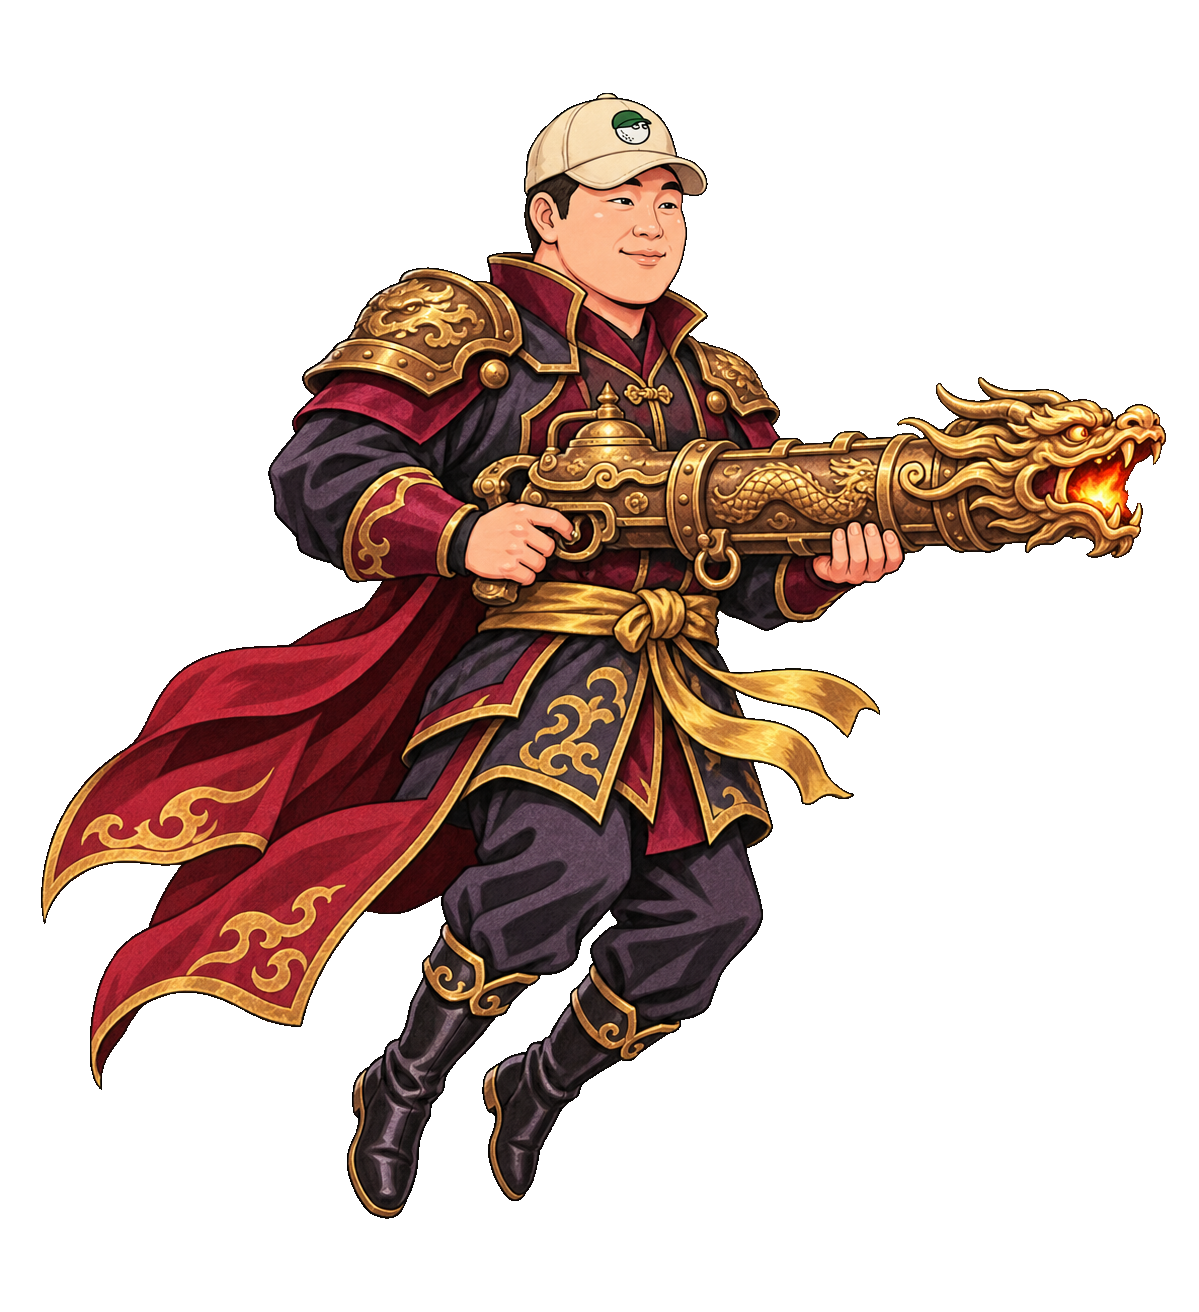
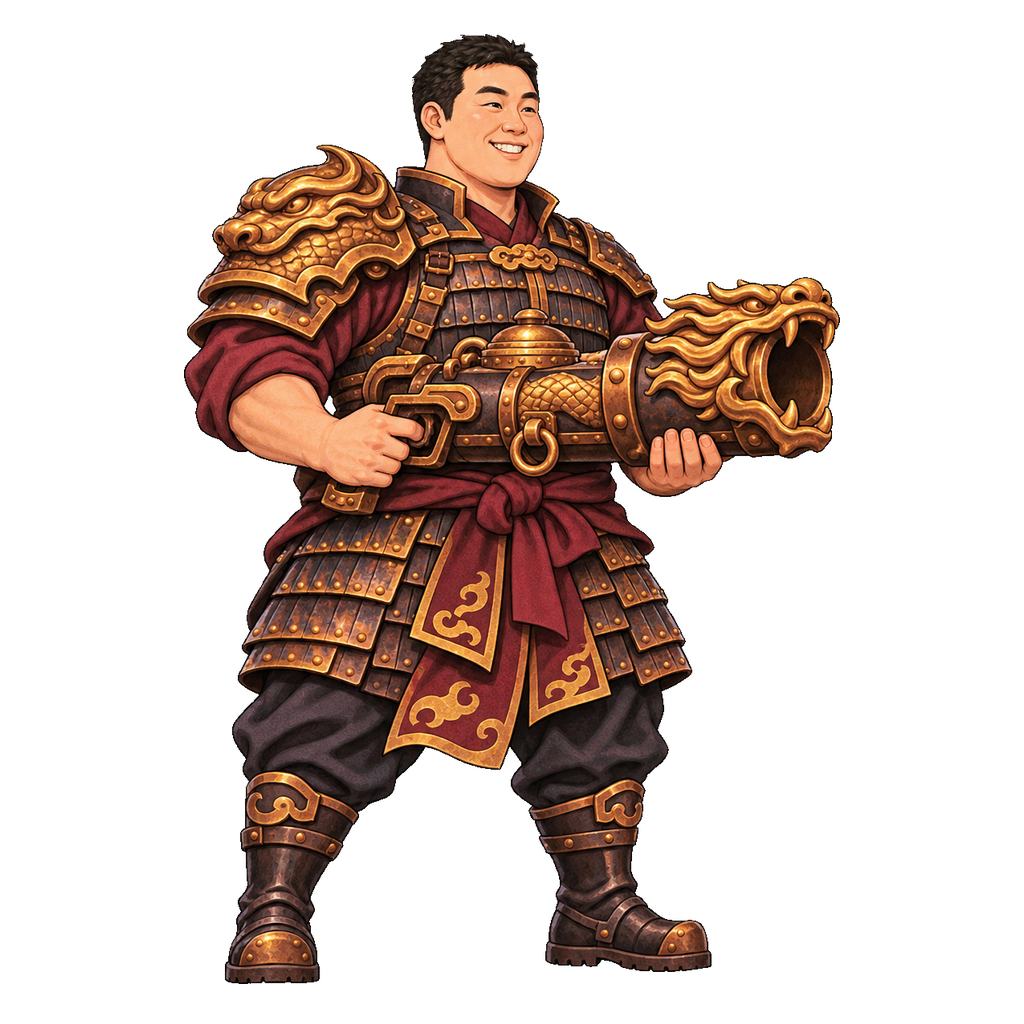
Remodel Skybound heroes with distinct hat-free designs and matching motions

diff --git a/public/skybound/index.html b/public/skybound/index.html
@@ -1,9 +1,9 @@
 <!doctype html>
-<html lang="ko"><head><meta charset="utf-8"><meta name="viewport" content="width=device-width,initial-scale=1,viewport-fit=cover"><meta name="theme-color" content="#07121b"><title>동기비행 · 흐르는 하늘</title><link rel="stylesheet" href="style.css?v=2"></head><body>
+<html lang="ko"><head><meta charset="utf-8"><meta name="viewport" content="width=device-width,initial-scale=1,viewport-fit=cover"><meta name="theme-color" content="#07121b"><title>동기비행 · 흐르는 하늘</title><link rel="stylesheet" href="style.css?v=3"></head><body>
 <header class="top"><a href="#" id="home" aria-label="캐릭터 선택으로">RE<span>09</span> ARCADE</a><span class="edition">동기비행 · 흐르는 하늘</span><div><button id="fullscreen" aria-label="전체화면 전환">전체화면</button><button id="sound" aria-pressed="false">소리 켜기</button><button id="pause" disabled>일시정지</button></div></header>
 <main><section id="select"><div class="intro"><p class="eyebrow">FOUR FRIENDS. ONE SKY.</p><h1>동기<span>비행</span></h1><p>운해를 가르고, 성곽을 넘어.<br>흐르는 하늘에서 네 사람의 비행이 시작된다.</p><div class="seal">七<br><small>일곱 하늘</small></div></div><div id="roster" class="roster"></div><div class="launch"><div><label for="difficulty">비행 난이도</label><select id="difficulty"><option value="easy">산책 · 처음이라면</option><option value="normal" selected>도전 · 오락실 감각</option><option value="hard">극한 · 빠른 탄막</option></select></div><button id="start" class="primary" disabled>비행 준비 중…</button><button id="resume" hidden>이어서 비행</button></div><p class="guide">방향키 / WASD 이동 · Shift 정밀 이동 · C 누르고 놓기 차지 · X 필살기 · P 일시정지 · F 전체화면<br>기본 공격은 자동 발사. 모바일은 가로로 돌린 뒤 화면을 드래그해 이동하세요.</p><p id="loadstatus" role="status">멤버와 하늘을 불러오는 중</p></section>
 <section id="play" hidden><div class="arena"><canvas id="game" width="960" height="540" tabindex="0" aria-label="동기비행 전투 화면. 방향키 이동, C 차지, X 필살기, P 일시정지."></canvas>
 <div class="hud"><div><small id="pilot"></small><strong id="lives"></strong></div><div class="score"><small>SCORE</small><strong id="score">000000</strong></div><div class="stage"><small id="stage-label"></small><strong id="power"></strong><div class="route-progress"><i id="route-fill"></i></div></div></div>
 <div class="flight-controls"><div class="charge-meter"><small>CHARGE <span id="charge-text">누르고 모으기</span></small><div><i id="charge-fill"></i></div></div><button id="auto" aria-pressed="true">자동 사격 ON</button><button id="charge">차지 <kbd>C</kbd></button><button id="bomb">필살기 <kbd>X</kbd> <span id="bomb-count"></span></button></div>
 <div id="overlay" hidden><p id="overlay-kicker"></p><h2 id="overlay-title"></h2><p id="overlay-desc"></p><div id="overlay-actions"></div></div><div id="toast" aria-live="polite"></div></div><p class="play-guide">가로로 돌리면 하늘이 화면 가득 펼쳐져요.<br>전체화면 F · 이동 방향키 / 화면 드래그</p></section></main>
-<footer>RE09 ORIGINAL · 친구들이 주인공인 아케이드 슈팅 <span>FLIGHT EDITION 02</span></footer><details id="diagnostics-wrap"><summary>비행 기록</summary><pre id="diagnostics"></pre></details><script type="module" src="game.mjs?v=2"></script></body></html>
+<footer>RE09 ORIGINAL · 친구들이 주인공인 아케이드 슈팅 <span>FLIGHT EDITION 03</span></footer><details id="diagnostics-wrap"><summary>비행 기록</summary><pre id="diagnostics"></pre></details><script type="module" src="game.mjs?v=3"></script></body></html>
